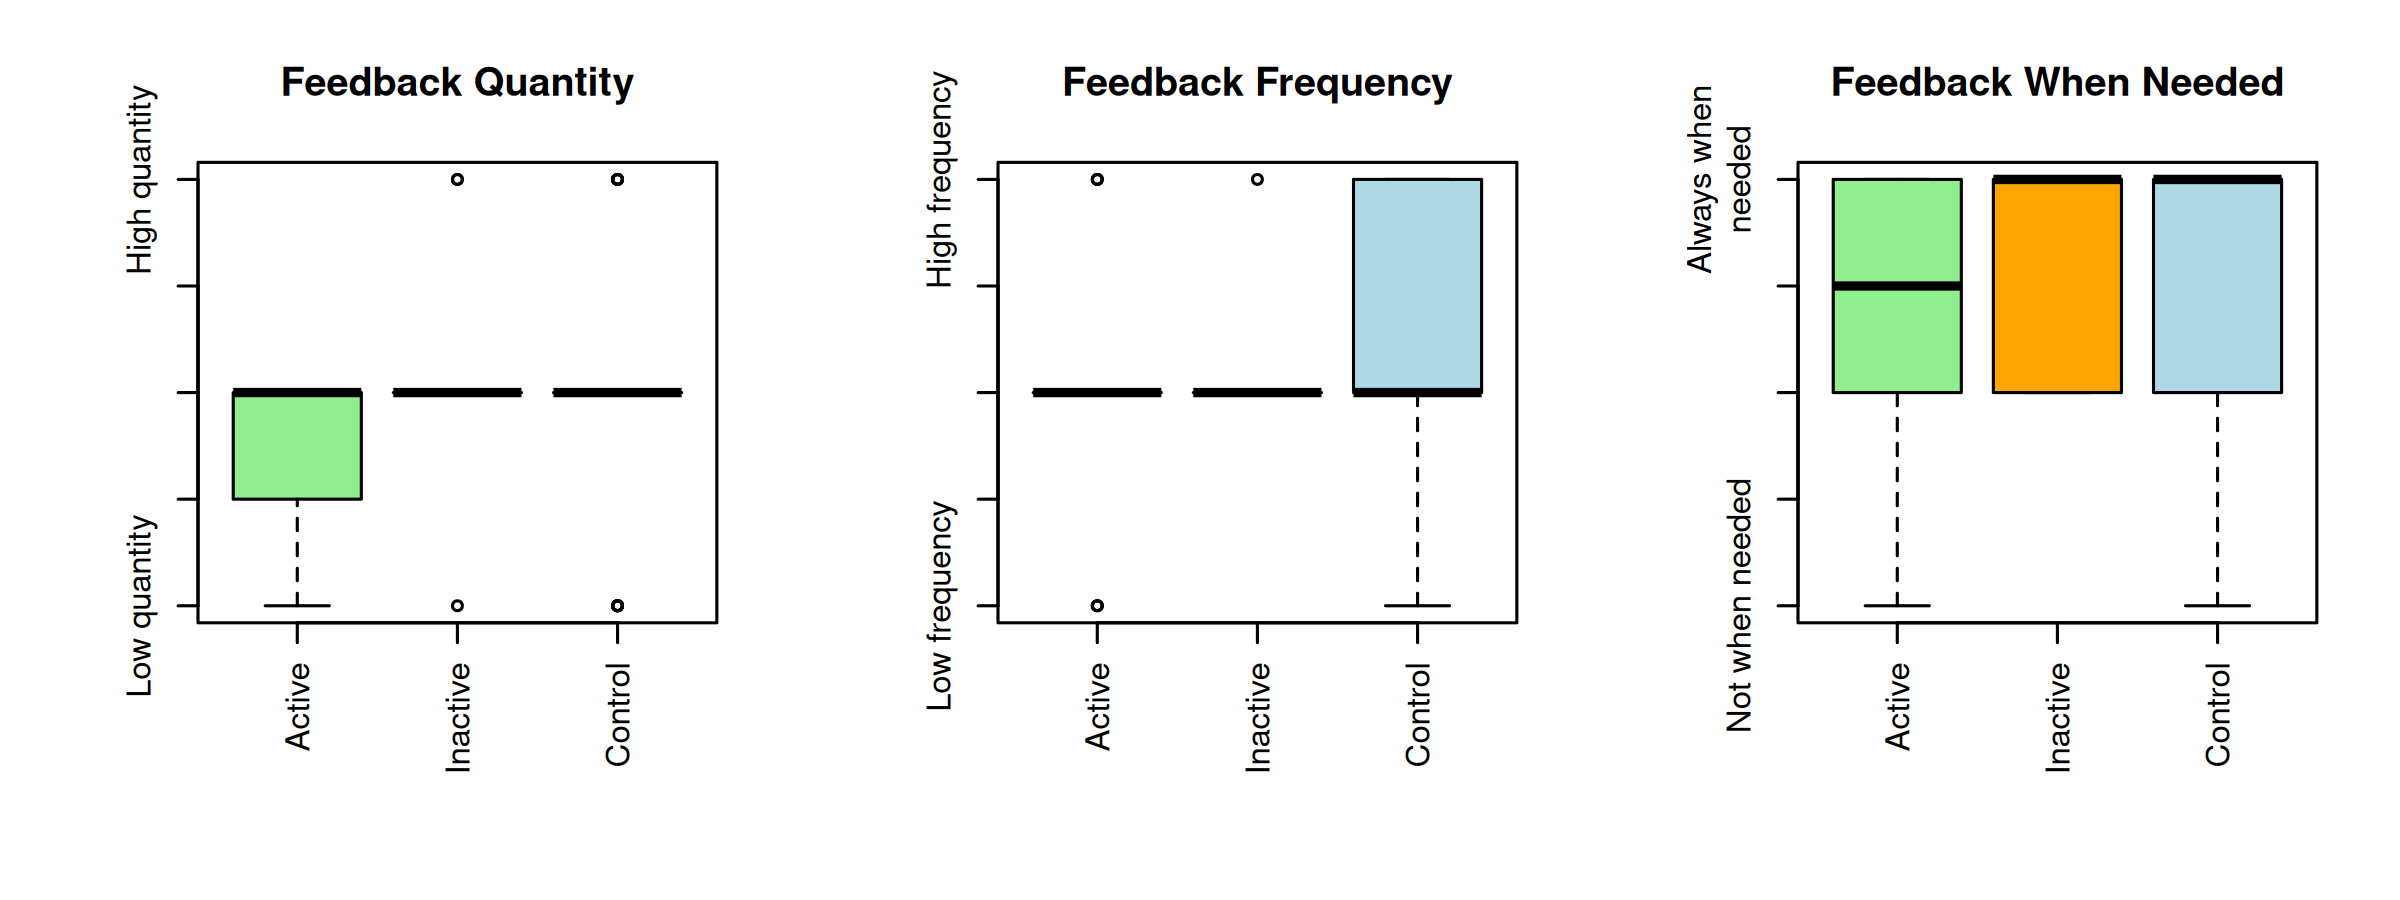
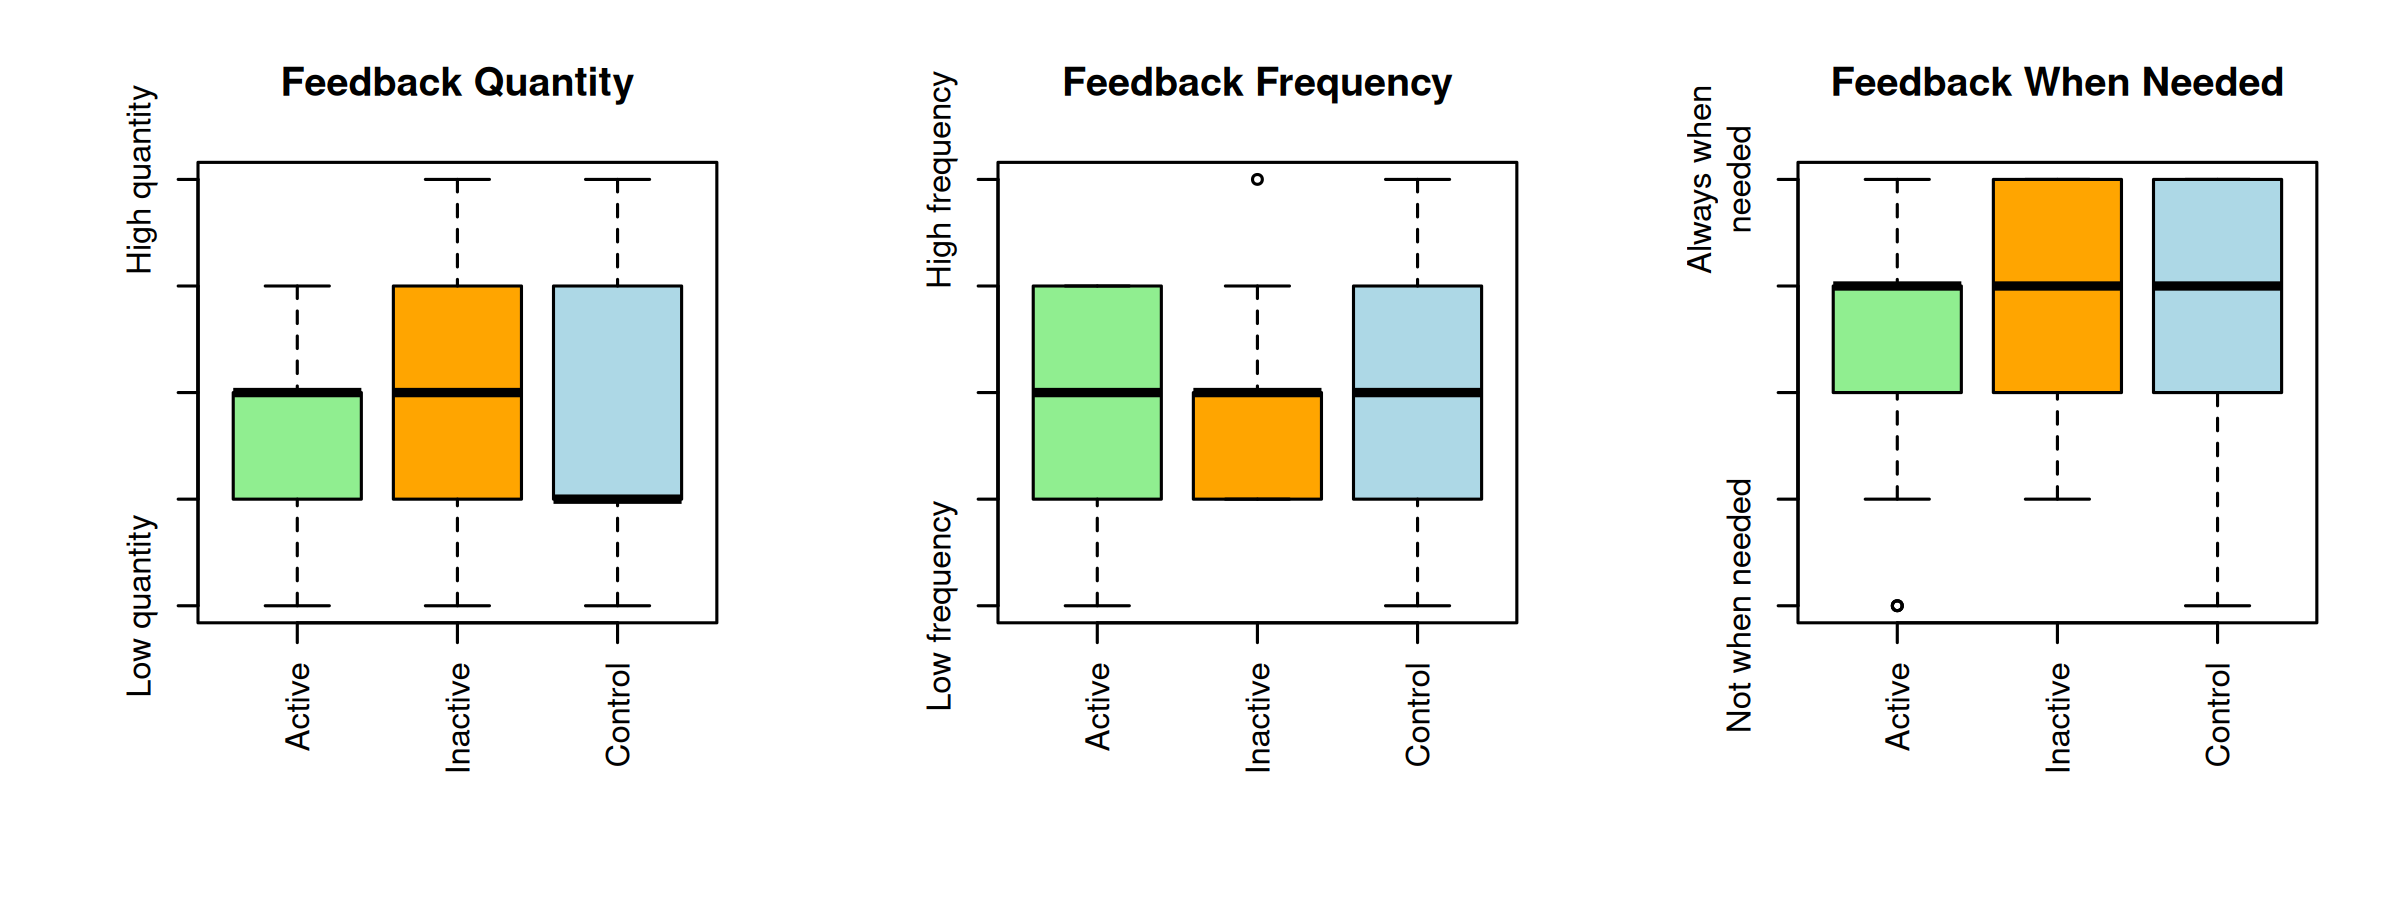
waterproof-pres: align ThEdu 26 result slides with the paper
Use the paper's four groups (active, inactive, unknown, control) in the
participant, quiz and proof-step tables, update figures, fix the f(x')
typo, add mixed-model side path, student-perspective figures and a
limitations slide, and match the conclusion to the paper.

diff --git a/waterproof-pres/nodes/quiz1.md b/waterproof-pres/nodes/quiz1.md
@@ -1,12 +1,12 @@
 # Performance on first quiz
 
-*Mean Quiz 1 results by study programme and condition*
+*Mean Quiz 1 grades by study programme and Waterproof engagement (scale 1–10, pass ≥ 5.5)*
 
-| Study Programme | WP (active) | WP (inactive) | Control |
-|:--|--:|--:|--:|
-| Mathematics (no double bachelor) | 6.12 | 5.75 | 5.96 |
-| Mathematics and applications | | | 4.61 |
-| Mathematics/Computer Science | 8.00 | 6.78 | |
-| Mathematics/Economics | 5.50 | | 6.65 |
-| Mathematics/Physics | 7.20 | 4.12 | 6.75 |
-| Other: | 5.75 | 4.50 | 5.62 |
+| Study Programme | Active | Inactive | Unknown | Control |
+|:--|--:|--:|--:|--:|
+| Mathematics (no double bachelor) | 6.12 | | 5.75 | 5.96 |
+| Mathematics and applications | | | | 4.61 |
+| Mathematics/Computer Science | 8.00 | 6.30 | 7.38 | |
+| Mathematics/Economics | 5.50 | | | 6.65 |
+| Mathematics/Physics | 7.20 | 3.50 | 4.75 | 6.75 |
+| Other: | 5.75 | | 4.50 | 5.62 |

diff --git a/waterproof-pres/nodes/participants.md b/waterproof-pres/nodes/participants.md
@@ -1,10 +1,13 @@
 # Participants
 
-| Study Programme | Waterproof | Control |
-|:--|--:|--:|
-| Mathematics (no double bachelor) | 7 | 14 |
-| Mathematics and applications | 0 | 9 |
-| Mathematics/Computer Science | 13 | 0 |
-| Mathematics/Economics | 1 | 5 |
-| Mathematics/Physics | 9 | 14 |
-| Other: | 4 | 4 |
+*Participants by study programme and Waterproof engagement*
+
+| Study Programme | Active | Inactive | Unknown | Control |
+|:--|--:|--:|--:|--:|
+| Mathematics (no double bachelor) | 4 | 0 | 3 | 14 |
+| Mathematics and applications | 0 | 0 | 0 | 9 |
+| Mathematics/Computer Science | 4 | 5 | 4 | 0 |
+| Mathematics/Economics | 1 | 0 | 0 | 5 |
+| Mathematics/Physics | 5 | 2 | 2 | 14 |
+| Other: | 2 | 0 | 2 | 4 |
+| Total | 16 | 7 | 11 | 46 |

diff --git a/waterproof-pres/nodes/mixed-model.md b/waterproof-pres/nodes/mixed-model.md
@@ -1,0 +1,13 @@
+# Mixed model for the first quiz
+
+*Fixed effects: quiz1 ~ num_wp_ex + math_B + pretest_grade + (1 | study programme) + (1 | group); all numerical variables standardised*
+
+| Term | Estimate | SE | df | $t$ | $p$ |
+|:--|--:|--:|--:|--:|--:|
+| (Intercept) | 0.029 | 0.166 | 5.2 | 0.176 | 0.867 |
+| Waterproof exercises | 0.204 | 0.127 | 39.6 | 1.603 | 0.117 |
+| Secondary school grade (Math B) | 0.413 | 0.103 | 64.6 | 4.008 | < .001 |
+| Pretest grade | 0.021 | 0.104 | 64.8 | 0.204 | 0.839 |
+
+- Study programme and teacher are strongly confounded
+- With study programme as a fixed effect, the Waterproof effect roughly halves (0.103, $p \approx 0.387$)

diff --git a/waterproof-pres/nodes/proof-steps.md b/waterproof-pres/nodes/proof-steps.md
@@ -1,9 +1,10 @@
 # Difference in proof steps
 
-*Average occurrences of selected logical steps per student, by group*
+*Average occurrences of the most interesting proof codes per participant, by group*
 
-| Code | Control | WP (Inactive) | WP (Active) |
-|:--|--:|--:|--:|
-| or-elim | 0.70 | 0.65 | 1.44 |
-| signpost-case | 2.78 | 3.12 | 4.31 |
-| exists-intro | 1.46 | 1.41 | 2.31 |
+| Code | Active | Inactive | Unknown | Control |
+|:--|--:|--:|--:|--:|
+| $\exists$-intro | 2.31 | 1.14 | 1.60 | 1.48 |
+| $\vee$-elim | 1.44 | 0.57 | 0.70 | 0.70 |
+| signpost-case | 4.31 | 2.86 | 3.30 | 2.78 |
+| signpost-concl | 1.62 | 2.14 | 2.00 | 2.20 |

diff --git a/waterproof-pres/nodes/conclusion.md b/waterproof-pres/nodes/conclusion.md
@@ -1,4 +1,6 @@
 # Conclusion
 
-- Waterproof helps students to make their proofs more explicit.
-- Waterproof might be extra helpful for Computer Science double majors.
+- Active Waterproof users write more explicit proofs.
+- Students report that Waterproof helps them learn about proof structure and proof writing.
+- Quasi-experiment: this points towards an effect, rather than proving a causal one.
+- Mathematics/Computer Science students who used Waterproof had higher grades, but this can't be separated from their study programme.

diff --git a/waterproof-pres/nodes/fig-timeontask.md b/waterproof-pres/nodes/fig-timeontask.md
@@ -2,5 +2,5 @@
 type: image
 title: Time on task (in class)
 src: ../figures/timeontask.png
-caption: "Proportion of observed in-class time spent in each activity category, averaged over sessions and grouped by whether Waterproof was used."
+caption: "Observations on time spent in class: the proportion of observed in-class time spent in each activity category, averaged over the observation sessions and grouped by whether Waterproof was used during the session."
 ---

diff --git a/waterproof-pres/nodes/limitations.md b/waterproof-pres/nodes/limitations.md
@@ -1,0 +1,9 @@
+---
+fragments: lists
+---
+# Limitations
+
+- Teacher effect: Otte and Commelin, both influenced by proof assistants, taught the Waterproof groups
+- Quasi-experiment: students self-selected into using Waterproof, and the groups partly follow study programme
+- Use of Waterproof is unknown for 11 of the 34 students in the Waterproof groups
+- The open coding of the survey was done by a single researcher

diff --git a/waterproof-pres/nodes/transfer.md b/waterproof-pres/nodes/transfer.md
@@ -2,7 +2,7 @@
 
 > Te bewijzen is dat $\forall y \in f(A), \exists x \in A, y = g(x)$.\
 > Neem $y \in f(A)$.\
-> $f(A) = \{f(x)\mid x \in A\}$, dus $\exists x' \in A, y = f(x)$.\
+> $f(A) = \{f(x)\mid x \in A\}$, dus $\exists x' \in A, y = f(x')$.\
 > Verkrijg deze $x' \in A$.\
 > Er geldt dus $y \in f(x')$.\
 > We moeten bewijzen dat $\exists x \in A, y = g(x)$.\

diff --git a/waterproof-pres/nodes/student-open-coding.md b/waterproof-pres/nodes/student-open-coding.md
@@ -1,0 +1,6 @@
+---
+type: image
+title: Why students used Waterproof, or stopped
+src: ../figures/open_valence.png
+caption: "Open-coded survey responses (22 students; codes given to at least three). Most frequent: it helps with proof structure and writing (13 students)."
+---

diff --git a/waterproof-pres/nodes/fig-hours.md b/waterproof-pres/nodes/fig-hours.md
@@ -1,6 +1,6 @@
 ---
 type: image
 title: Time spent on the course
-src: ../figures/hours.png
+src: ../figures/hours_total.png
 caption: "Survey results on time spent on the course"
 ---

diff --git a/waterproof-pres/nodes/student-likert.md b/waterproof-pres/nodes/student-likert.md
@@ -1,0 +1,6 @@
+---
+type: image
+title: Student perspective on Waterproof
+src: ../figures/wp_likert.png
+caption: "Student perspective on Waterproof use"
+---
